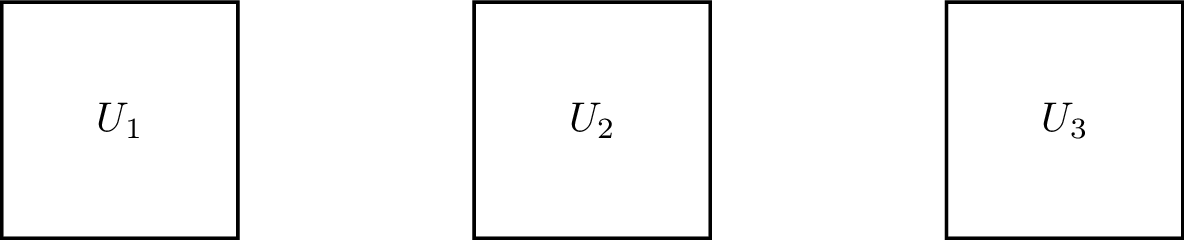
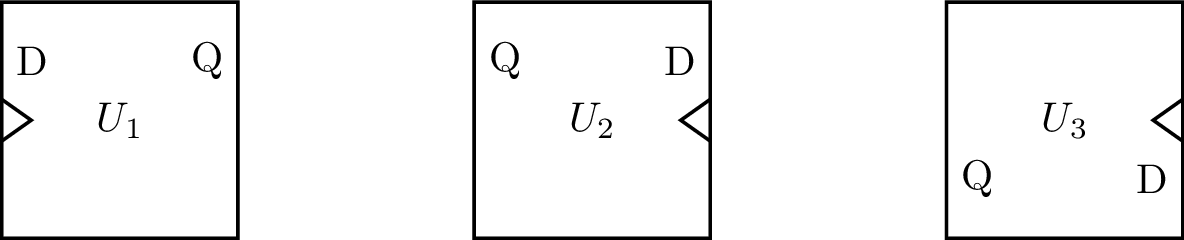
Fix default pinlabels

diff --git a/lcapy/schemcpts.py b/lcapy/schemcpts.py
@@ -1779,6 +1779,7 @@ class Shape(FixedCpt):
         # pinlabels, pinlabels=, pinlabels=auto  label connected pins with defined labels
         # pinlabels={pin1, pin2, ...} label specified pins by pinname
         # pinlabels=all  label all pinlabels (pins connected or not)
+        # pinlabels=default label the default pinlabels
         # pinlabels=none label no pinlabels
 
         def pinlabel(node_name):
@@ -1794,7 +1795,7 @@ class Shape(FixedCpt):
 
         prefix = self.name + '.'
 
-        pinlabels = self.opts.get('pinlabels', 'none')
+        pinlabels = self.opts.get('pinlabels', 'default')
 
         if pinlabels == 'none':
             return {}
@@ -1803,7 +1804,7 @@ class Shape(FixedCpt):
         elif pinlabels == 'all':
             return {name: pinlabel(name) for name in self.pin_node_names if pinlabel(name) != ''}
         elif pinlabels == 'default':
-            return {name: pinlabel(name) for name in self.default_pins if pinlabel(name) != ''}
+            return {self.name + '.' + name: pinlabel(self.name + '.' + name) for name in self.default_pins if pinlabel(name) != ''}
         else:
             if pinlabels[0] != '{':
                 raise ValueError('Expecting { for pinlabels in %s' % self)
@@ -3444,7 +3445,7 @@ class Flipflop(Chip):
 class Udff(Flipflop):
     """D flip-flop"""
 
-    default_pins = '{d, clk, q}'
+    default_pins = ('d', 'clk', 'q')
 
     pins = {'d': ('l', -0.5, 0.25),
             'clk': ('l', -0.5, 0),
@@ -3460,7 +3461,7 @@ class Udff(Flipflop):
 class Ujkff(Flipflop):
     """JK flip-flop"""
 
-    default_pins = '{j, k, clk, q}'
+    default_pins = ('j', 'k', 'clk', 'q')
 
     pins = {'j': ('l', -0.5, 0.25),
             'clk': ('l', -0.5, 0),
@@ -3478,7 +3479,7 @@ class Ujkff(Flipflop):
 class Urslatch(Flipflop):
     """RS latch"""
 
-    default_pins = '{r, s, q}'
+    default_pins = ('r', 's', 'q')
 
     pins = {'r': ('l', -0.5, 0.25),
             's': ('l', -0.5, -0.25),

diff --git a/doc/schematics.rst b/doc/schematics.rst
@@ -1167,21 +1167,22 @@ In addition, there are component specific connection pins.  Associated
 with each pin is an optional label.
 
 The `pinlabels` option can be specified as:
- - `all` : the default labels for all the pins are shown
- - `connected` : the default labels for all the connected pins are shown
- - `none` : none of the default labels are shown
- - `{pin1:label1, pin2:label2, ...}` : the labels are specified for the named pins.
+ - `all` : the labels for all the pins are shown
+ - `connected` : the labels for all the connected pins are shown
+ - `default` : the default labels are shown (default)
+ - `none` : none of the labels are shown
+ - `{pin1:label1, pin2:label2, ...}`: the labels are specified for the named pins.
 
 The names of the pins can be drawn using the `pinnames` option.  This has a syntax:
  - `all` : the pin names for all the pins are shown
  - `connected` : the pin names for all the connected pins are shown
- - `none` : none of the pin names are shown
+ - `none` : none of the pin names are shown (default)
  - `{pin1, pin2, ...}` : the specified pin names are shown.
 
 The nodes of the pins can be drawn using the `pinnodes` option.  This has a syntax:
  - `all` : the pin nodes for all the pins are shown
  - `connected` : the pin nodes for all the connected pins are shown
- - `none` : none of the pin nodes are shown
+ - `none` : none of the pin nodes are shown (default)
  - `{pin1, pin2, ...}` : the specified pin nodes are shown.
 
 The pin names can be redefined by the `pindefs` option.  This has a syntax:
